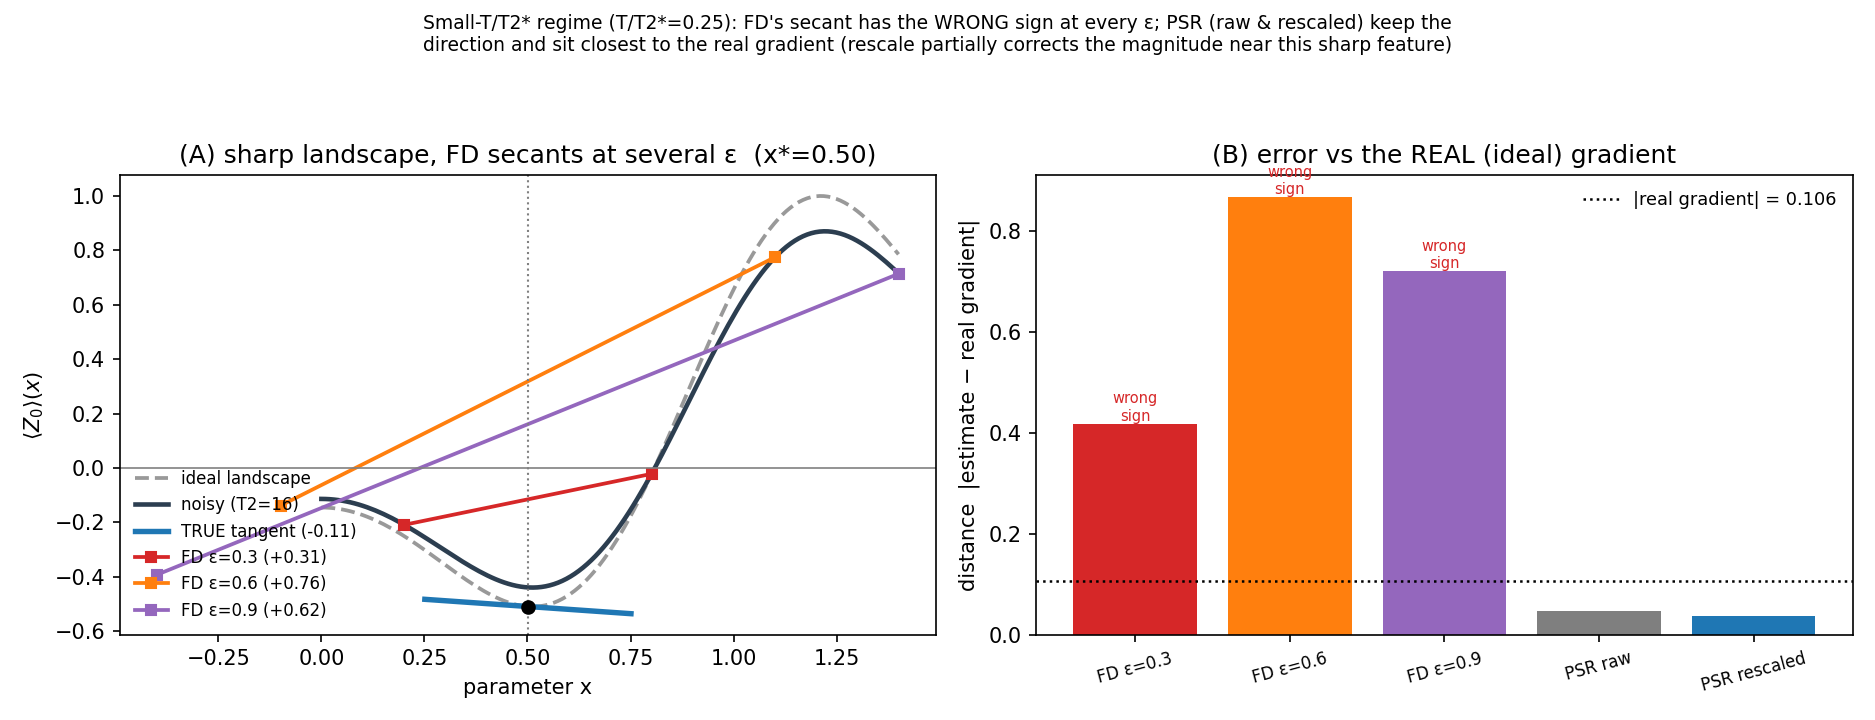
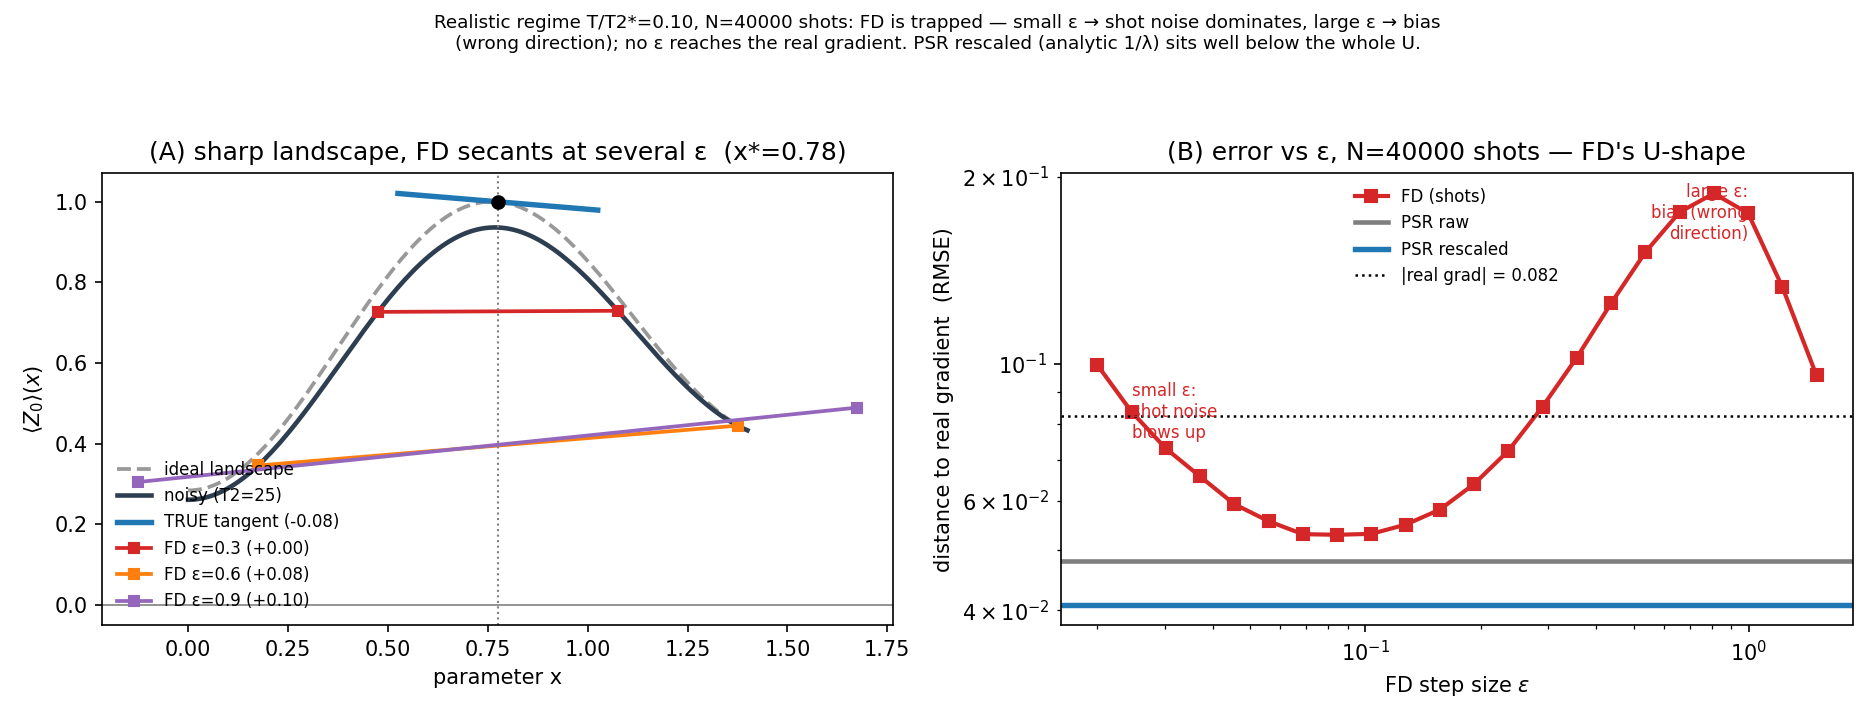
Log-log distance vs ε with shots: FD's U-shape (small ε → noise), PSR below
Updated to the realistic regime T/T2*=0.10 (T=2.5 sharp landscape, T2=25) with a
finite shot budget (N=40000), per user request.

Panel A: sharp <Z0>(x), small-gradient point x*=0.78, true tangent (-0.08), FD
secants at ε=0.3/0.6/0.9 (wrong slopes).
Panel B (log-log, the requested view): distance |estimate − real gradient| (RMSE
over shots) vs FD ε — FD is a clear U-SHAPE:
  - small ε → 1/(2ε) SHOT NOISE blows up the distance (left arm),
  - large ε → secant BIAS / wrong direction (right arm),
  - no ε reaches the real gradient.
PSR raw (0.048) and PSR rescaled (0.041) are horizontal lines BELOW the entire U
and below |real gradient| (0.082); the analytic rescale (factor 1.73 here)
improves PSR further. At the moderately-sharp T=2.5 the PSR τ-variance is
manageable (unlike T=4 where it also blows up at small gradients).

Honest note retained: the rescale's magnitude help varies with the point; here it
improves (0.048→0.041). The robust message: FD is trapped between shot-noise
(small ε) and bias (large ε); PSR sits below the whole U with no ε to tune.

diff --git a/differential_computing/tests/landscape_and_distance.py b/differential_computing/tests/landscape_and_distance.py
@@ -34,12 +34,15 @@ import scaling_universality as su
 from noisy_qutip import NoisyQuTiPRunner
 from noise_model import NoiseModel
 
-T = 4.0
-T2 = 16.0                 # T/T2* = 0.25 (small-noise regime, rescale accurate)
+T = 2.5
+T2 = 25.0                 # T/T2* = 0.10 (realistic operating regime)
 OBS = qp.tensor(qp.sigmaz(), qp.qeye(2))
 PSI0 = qp.tensor(qp.basis(2, 0), qp.basis(2, 0))
 I = qp.qeye(2); X, Z = qp.sigmax(), qp.sigmaz()
-FD_EPS = [0.3, 0.6, 0.9]
+FD_EPS = [0.3, 0.6, 0.9]     # secants drawn on the landscape (panel A)
+N_SHOTS = 40000              # finite shot budget / gradient (panel B)
+R_TRIALS = 4000
+N_SAMPLE = 256               # PSR tau samples
 
 
 def Hsq(theta):                                   # qutip H(theta)
@@ -73,24 +76,52 @@ def main():
     # the REAL gradient (ideal) at x*
     g_real = (fc(x_star + 1e-3) - fc(x_star - 1e-3)) / 2e-3
 
-    # PSR raw (under noise) and rescaled
+    # PSR raw (under noise) + analytic rescale factor
     H, var = Hsimuq()
-    g_psr_raw = su.psr_grad(H, var, x_star, T, noisy, 2, OBS, n_sample=300)
     s = ar.lambda_slope(Hsq, OBS, PSI0, T, 2, z_sites=[0], theta=x_star)
     factor = ar.rescale_factor(s, T, T2)
-    g_psr_resc = g_psr_raw * factor
 
-    # FD estimates on the noisy landscape at several ε
-    fd = {eps: (fn(x_star + eps) - fn(x_star - eps)) / (2 * eps) for eps in FD_EPS}
+    # ── shot-noise machinery (RMSE distance to the REAL gradient) ──
+    rng = np.random.default_rng(0)
 
-    print(f"Sharp landscape T={T}, T2={T2} (T/T2*={T/T2:.2f}).  x*={x_star:.3f}.")
-    print(f"  REAL (ideal) gradient = {g_real:+.4f}")
-    print(f"  PSR raw   = {g_psr_raw:+.4f}  (dist {abs(g_psr_raw-g_real):.4f})")
-    print(f"  PSR resc  = {g_psr_resc:+.4f}  (dist {abs(g_psr_resc-g_real):.4f})  "
-          f"[slope s={s:+.3f}, factor 1/λ={factor:.3f}]")
-    for eps in FD_EPS:
-        print(f"  FD ε={eps} = {fd[eps]:+.4f}  (dist {abs(fd[eps]-g_real):.4f})"
-              f"{'  WRONG sign' if np.sign(fd[eps])!=np.sign(g_real) else ''}")
+    def shots(exact, n):
+        p = 0.5 * (1 + np.clip(exact, -1, 1))
+        return 2.0 * rng.binomial(int(max(1, n)), p, size=R_TRIALS) / max(1, n) - 1
+
+    def fd_rmse(eps):
+        n = N_SHOTS // 2
+        est = (shots(fn(x_star + eps), n) - shots(fn(x_star - eps), n)) / (2 * eps)
+        return float(np.sqrt(np.mean((est - g_real) ** 2)))
+
+    # PSR pool (noisy branch expectations), subsample + shots per trial
+    np.random.seed(123)
+    progs = su.observable_program_generator(H, T, n_sample=800, n_repetition=1,
+                                            diff_var=var, value=x_star)
+    pexp = noisy.make_expectation_fn(PSI0, OBS)
+    H_tot, ug, _ = progs[0]; b = len(H_tot) // 2
+    em = np.array([pexp(H_tot[2 * i]) for i in range(b)])
+    ep = np.array([pexp(H_tot[2 * i + 1]) for i in range(b)])
+
+    def psr_est():
+        n_per = int(max(1, round(N_SHOTS / (2 * N_SAMPLE))))
+        idx = rng.integers(0, len(em), size=(R_TRIALS, N_SAMPLE))
+        fm = 2.0 * rng.binomial(n_per, 0.5 * (1 + np.clip(em[idx], -1, 1))) / n_per - 1
+        fp = 2.0 * rng.binomial(n_per, 0.5 * (1 + np.clip(ep[idx], -1, 1))) / n_per - 1
+        return (T / N_SAMPLE) * float(ug) * np.sum(fm - fp, axis=1)
+
+    psr_raw = psr_est()
+    psr_raw_rmse = float(np.sqrt(np.mean((psr_raw - g_real) ** 2)))
+    psr_resc_rmse = float(np.sqrt(np.mean((psr_raw * factor - g_real) ** 2)))
+
+    eps_grid = np.geomspace(0.02, 1.5, 22)
+    fd_rmses = [fd_rmse(float(e)) for e in eps_grid]
+
+    print(f"Sharp landscape T={T}, T2={T2} (T/T2*={T/T2:.2f}).  x*={x_star:.3f}, "
+          f"real grad={g_real:+.4f}, N={N_SHOTS} shots.")
+    print(f"  PSR raw RMSE      = {psr_raw_rmse:.4f}")
+    print(f"  PSR rescaled RMSE = {psr_resc_rmse:.4f}  [factor 1/λ={factor:.3f}]")
+    for e, r in zip(eps_grid, fd_rmses):
+        print(f"  FD ε={e:5.3f}  RMSE={r:.4f}")
 
     # ── plot ──
     fig, (axA, axB) = plt.subplots(1, 2, figsize=(12.5, 4.8), dpi=150)
@@ -102,37 +133,36 @@ def main():
     tx = np.array([x_star - 0.25, x_star + 0.25])
     axA.plot(tx, z0 + g_real * (tx - x_star), color="#1f77b4", lw=2.6,
              label=f"TRUE tangent ({g_real:+.2f})")
-    fdc = ["#d62728", "#ff7f0e", "#9467bd"]
-    for eps, c in zip(FD_EPS, fdc):
+    for eps, c in zip(FD_EPS, ["#d62728", "#ff7f0e", "#9467bd"]):
+        sl = (fn(x_star + eps) - fn(x_star - eps)) / (2 * eps)
         axA.plot([x_star-eps, x_star+eps], [fn(x_star-eps), fn(x_star+eps)],
-                 "s-", color=c, lw=1.8, ms=5, label=f"FD ε={eps} ({fd[eps]:+.2f})")
+                 "s-", color=c, lw=1.8, ms=5, label=f"FD ε={eps} ({sl:+.2f})")
     axA.axhline(0, color="gray", lw=0.8); axA.axvline(x_star, color="gray", ls=":", lw=1)
     axA.plot([x_star], [z0], "ko", ms=6)
     axA.set_xlabel("parameter x"); axA.set_ylabel(r"$\langle Z_0\rangle(x)$")
     axA.set_title(f"(A) sharp landscape, FD secants at several ε  (x*={x_star:.2f})")
     axA.legend(frameon=False, fontsize=8, loc="lower left")
 
-    # Panel B: distance to the real gradient
-    labels = [f"FD ε={e}" for e in FD_EPS] + ["PSR raw", "PSR rescaled"]
-    dists = [abs(fd[e] - g_real) for e in FD_EPS] + \
-            [abs(g_psr_raw - g_real), abs(g_psr_resc - g_real)]
-    cols = fdc + ["#7f7f7f", "#1f77b4"]
-    bars = axB.bar(range(len(labels)), dists, color=cols)
+    # Panel B: log-log RMSE distance vs ε (U-shape) + PSR lines
+    axB.loglog(eps_grid, fd_rmses, "s-", color="#d62728", lw=2, label="FD (shots)")
+    axB.axhline(psr_raw_rmse, color="#7f7f7f", lw=2.2, label="PSR raw")
+    axB.axhline(psr_resc_rmse, color="#1f77b4", lw=2.6, label="PSR rescaled")
     axB.axhline(abs(g_real), color="k", ls=":", lw=1.2,
-                label=f"|real gradient| = {abs(g_real):.3f}")
-    for b, e in zip(bars[:len(FD_EPS)], FD_EPS):
-        if np.sign(fd[e]) != np.sign(g_real):
-            axB.text(b.get_x()+b.get_width()/2, b.get_height(), "wrong\nsign",
-                     ha="center", va="bottom", fontsize=7, color="#d62728")
-    axB.set_xticks(range(len(labels))); axB.set_xticklabels(labels, fontsize=8, rotation=15)
-    axB.set_ylabel("distance  |estimate − real gradient|")
-    axB.set_title("(B) error vs the REAL (ideal) gradient")
-    axB.legend(frameon=False, fontsize=8.5)
+                label=f"|real grad| = {abs(g_real):.3f}")
+    # annotate the two failure arms
+    axB.text(eps_grid[1], fd_rmses[1], "small ε:\nshot noise\nblows up",
+             fontsize=8, color="#d62728", va="center")
+    axB.text(eps_grid[-3], fd_rmses[-3], "large ε:\nbias (wrong\ndirection)",
+             fontsize=8, color="#d62728", ha="right", va="center")
+    axB.set_xlabel(r"FD step size $\varepsilon$")
+    axB.set_ylabel("distance to real gradient  (RMSE)")
+    axB.set_title(f"(B) error vs ε, N={N_SHOTS} shots — FD's U-shape")
+    axB.legend(frameon=False, fontsize=8, loc="upper center")
 
-    fig.suptitle(f"Small-T/T2* regime (T/T2*={T/T2:.2f}): FD's secant has the WRONG "
-                 f"sign at every ε; PSR (raw & rescaled) keep the\ndirection and "
-                 f"sit closest to the real gradient (rescale partially corrects the "
-                 f"magnitude near this sharp feature)", fontsize=9.0)
+    fig.suptitle(f"Realistic regime T/T2*={T/T2:.2f}, N={N_SHOTS} shots: FD is "
+                 f"trapped — small ε → shot noise dominates, large ε → bias\n"
+                 f"(wrong direction); no ε reaches the real gradient. PSR rescaled "
+                 f"(analytic 1/λ) sits well below the whole U.", fontsize=8.8)
     fig.tight_layout(rect=(0, 0, 1, 0.92))
     out = os.path.abspath(os.path.join(os.path.dirname(__file__), "..",
                                        "figures", "landscape_and_distance.png"))
